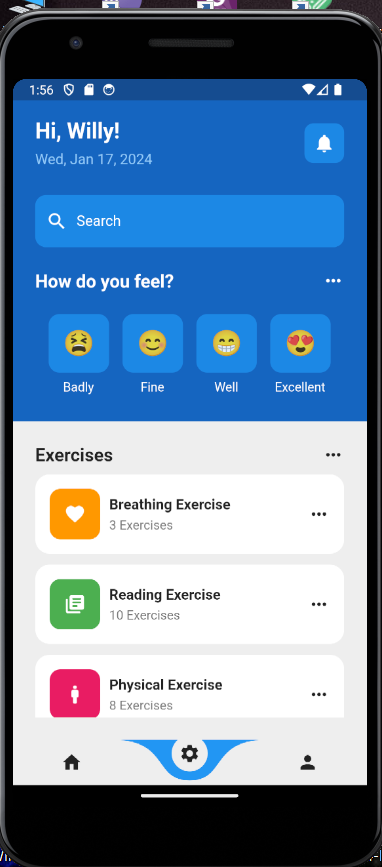
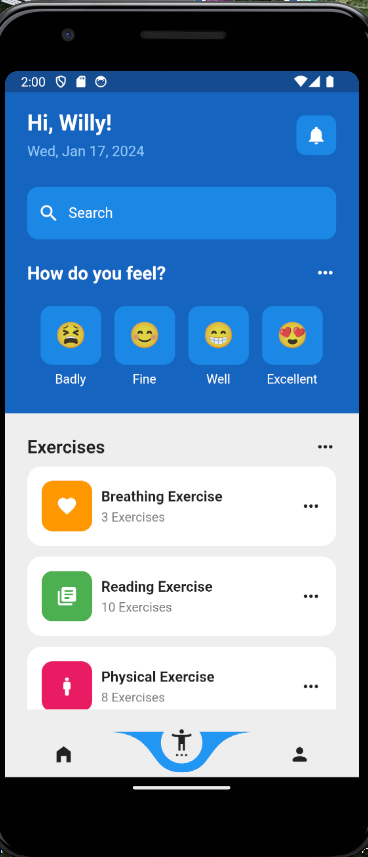
updated image in assets folder

diff --git a/lib/pages/home_page.dart b/lib/pages/home_page.dart
@@ -23,10 +23,13 @@ class _HomePageState extends State<HomePage> {
         height: 50,
         items: const [
           Icon(
-            Icons.home,
+            Icons.home_filled,
           ),
-          Icon(Icons.settings),
-          Icon(Icons.person),
+          Icon(
+            Icons.settings_accessibility,
+            size: 30,
+          ),
+          Icon(Icons.person_rounded),
         ],
       ),
       body: SafeArea(
